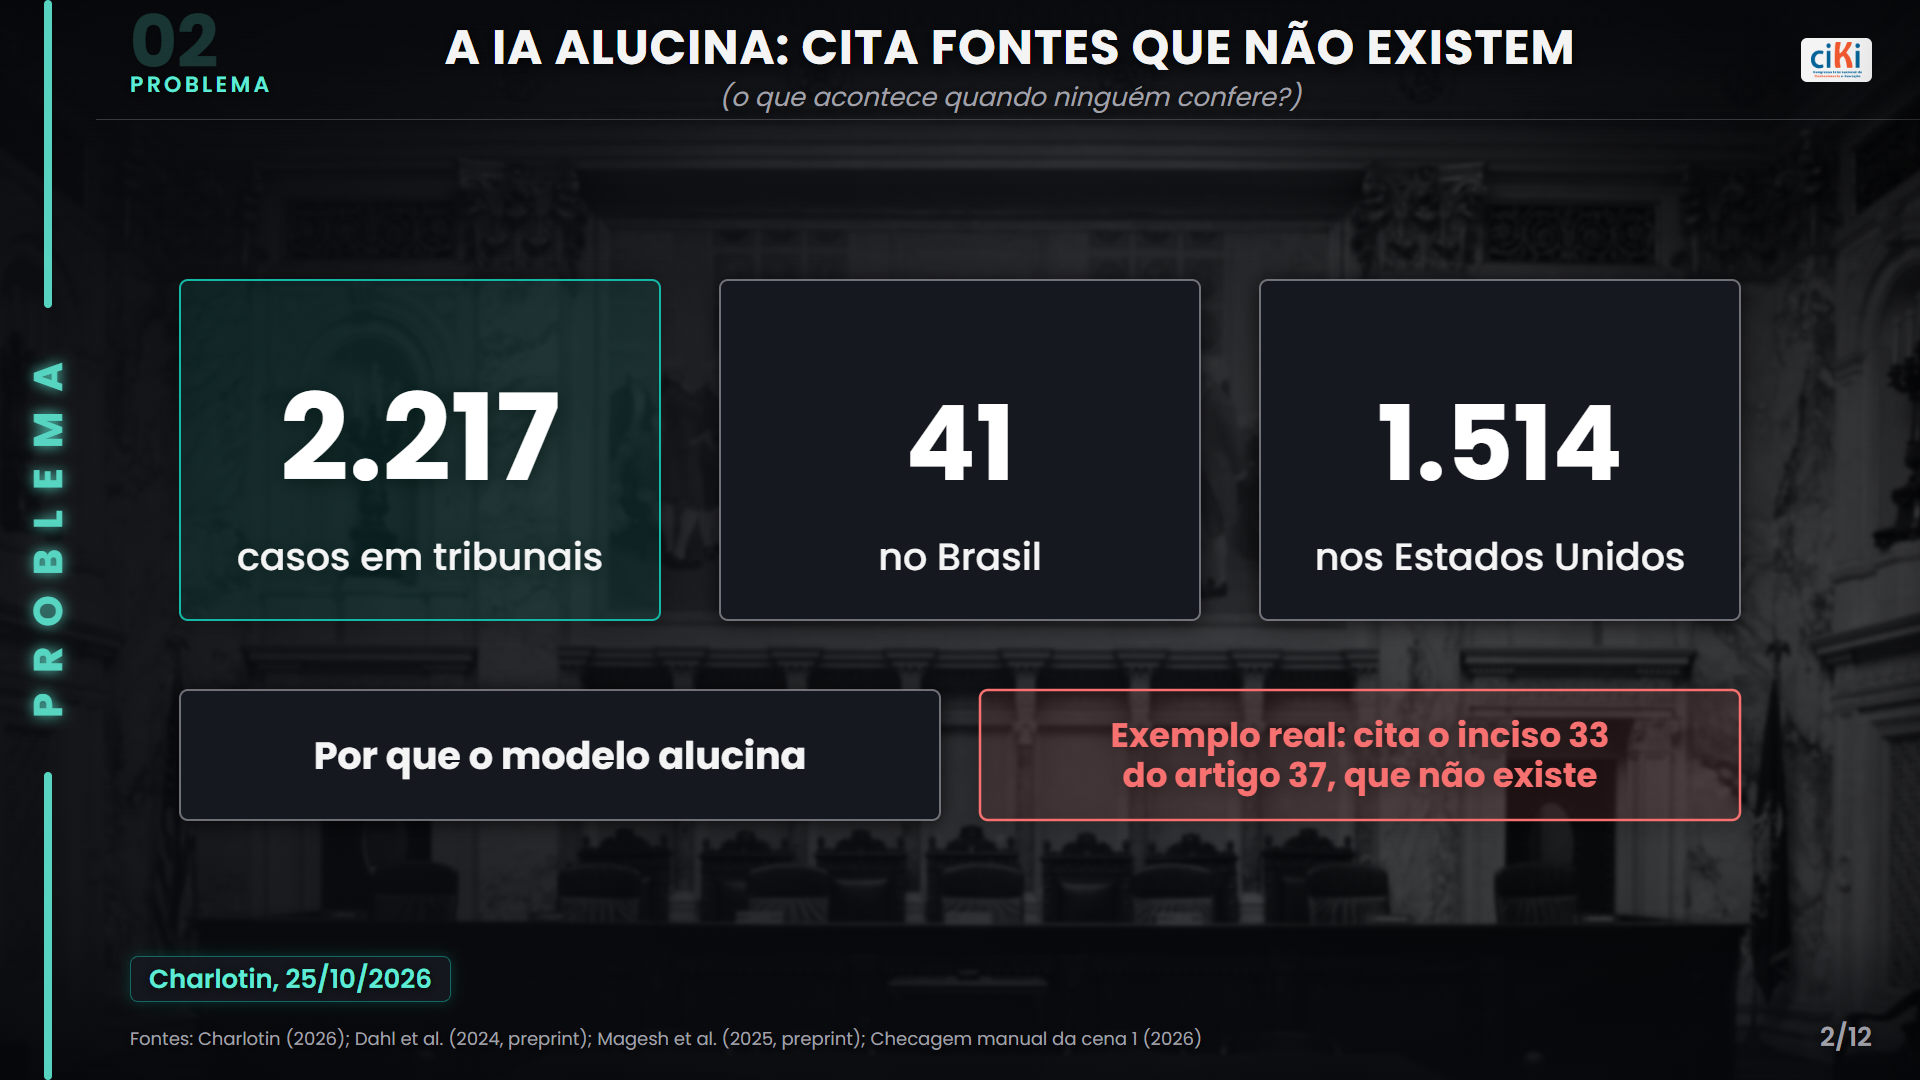
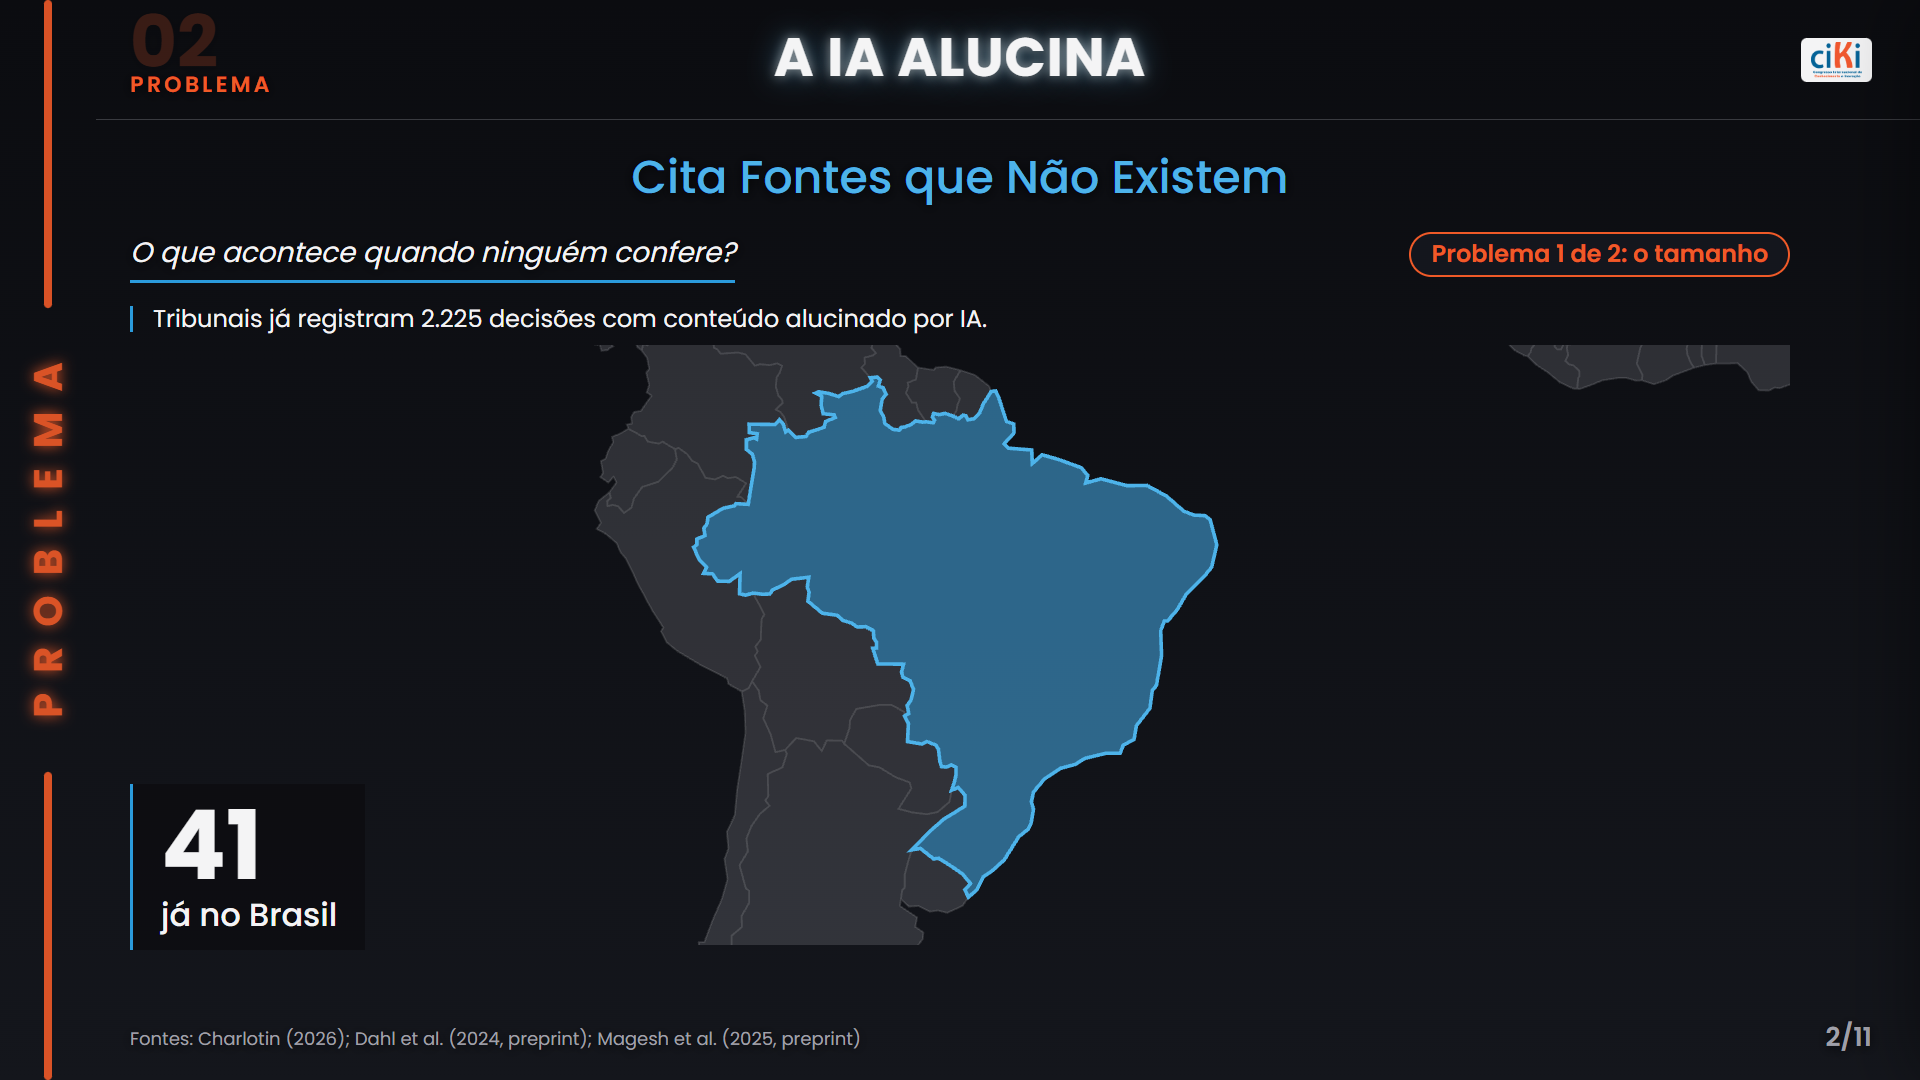
Slides 2 e 3: etiqueta Problema 1 de 2 e 2 de 2; IA explicável na camada 1

diff --git a/web/index.html b/web/index.html
@@ -7,7 +7,7 @@
 <link rel="stylesheet" href="fonts/poppins.css">
 <link rel="stylesheet" href="fonts/notosansmath.css">
 <link rel="stylesheet" href="kit.css">
-<link rel="stylesheet" href="deck.css?v=16">
+<link rel="stylesheet" href="deck.css?v=17">
 <link rel="stylesheet" href="matrix8.css">
 <link rel="stylesheet" href="paineis.css">
 </head>
@@ -35,6 +35,7 @@
 <section class="slide s2" data-title="A IA alucina: cita fontes que não existem" data-t="50" data-steps="3" data-block="PROBLEMA" data-fontes="charlotin,dahl,magesh" aria-label="A IA alucina">
 <h1 class="ttl"><span class="w">A IA ALUCINA</span></h1>
 <p class="sub">Cita Fontes que Não Existem</p>
+<p class="ptag">Problema 1 de 2: o tamanho</p>
 <p class="guia">O que acontece quando ninguém confere?</p>
 <div class="hero" data-hero="s2"></div>
 <p class="resp">Tribunais já registram 2.225 decisões com conteúdo alucinado por IA.</p>
@@ -42,6 +43,7 @@
 <div class="mc mc1" data-open="s2-casos" tabindex="0" role="button" aria-label="Casos nos Estados Unidos: ver a tabela e as taxas de erro"><b>1.514</b><span>só nos Estados Unidos</span></div>
 <div class="mc mc2" data-open="s2-casos" tabindex="0" role="button" aria-label="Casos no Brasil: ver a tabela e as taxas de erro"><b>41</b><span>já no Brasil</span></div>
 <aside class="notes" data-t="50">• Modelo escolhe o provável, não o verdadeiro
+• Problema 1: o tamanho
 • Mundo: 2.225 decisões (pelo menos), Charlotin 27/10
 • EUA 1.514 (2 em 3); Brasil 41: já chegou
 • Taxas de erro: clicar no número</aside>
@@ -53,9 +55,11 @@
 <div class="veil"></div>
 <h1 class="ttl"><span class="w">EXPLICAÇÃO TARDIA</span></h1>
 <p class="sub">Explicar Depois Não Evita o Erro</p>
+<p class="ptag">Problema 2 de 2: a saída atual não resolve</p>
 <p class="guia">Por que explicar o modelo não basta?</p>
 <div class="hero" data-hero="s3"></div>
-<aside class="notes" data-t="40">• Falsa saída: explicar depois (XAI)
+<aside class="notes" data-t="40">• Problema 2: a saída da literatura não resolve
+• IA explicável (XAI) explica depois do dano
 • Dano já ocorreu quando a explicação chega
 • Rudin 2019: interpretável desde o início
 • Prova antes da assinatura</aside>
@@ -330,6 +334,6 @@
 <script src="lib/three.min.js"></script>
 <script src="img/mundo.js"></script>
 <script src="matrix8.js"></script>
-<script src="deck.js?v=8"></script>
+<script src="deck.js?v=9"></script>
 </body>
 </html>

diff --git a/web/deck.js b/web/deck.js
@@ -391,7 +391,7 @@ function zoomMundo(s, step) {
 HEROES.s3 = K => {
   const l1 = K.lane({ x: 0, y: 10, w: 1600, h: 270, t: 'Depois', size: 36, step: 1 }) + K.node({ cx: 520, cy: 120, r: 44, step: 2 }) + K.text({ x: 520, y: 215, t: 'Decisão', size: 34, anchor: 'middle' }) +
     K.arrow({ pts: [[574, 120], [790, 120]], step: 3 }) + K.node({ cx: 880, cy: 120, r: 80, t: 'Dano', size: 36, tone: 'err', fill: true, step: 4 }) +
-    K.arrow({ pts: [[970, 120], [1230, 120]], tone: 'late', dash: true, step: 5 }) + K.ring({ cx: 1320, cy: 120, r: 80, dash: true, tone: 'late', step: 6 }) + K.text({ x: 1320, y: 240, t: 'Explicação', size: 34, anchor: 'middle', tone: 'late' });
+    K.arrow({ pts: [[970, 120], [1230, 120]], tone: 'late', dash: true, step: 5 }) + K.ring({ cx: 1320, cy: 120, r: 80, dash: true, tone: 'late', step: 6 }) + K.text({ x: 1320, y: 240, t: 'IA explicável', size: 34, anchor: 'middle', tone: 'late' });
   const sh = [480, 620, 760].map((x, i) => K.pic('verificar', { x, y: 420, s: 100, pos: 'none', step: 8 + i })).join('');
   const l2 = K.lane({ x: 0, y: 340, w: 1600, h: 270, t: 'Antes', size: 36, step: 7 }) + sh + K.text({ x: 660, y: 575, t: 'Verificações', size: 34, anchor: 'middle', step: 11 }) +
     K.arrow({ pts: [[890, 470], [1230, 470]], step: 12 }) + K.node({ cx: 1320, cy: 470, r: 64, fill: 'solid', step: 13 }) + K.text({ x: 1320, y: 585, t: 'Decisão', size: 34, anchor: 'middle', step: 13 });

diff --git a/web/deck.css b/web/deck.css
@@ -302,3 +302,5 @@ body.reduzir-movimento *{animation:none!important;transition:none!important}
 .slide.s8 .stepw{z-index:9;text-shadow:0 0 14px #0b0c10,0 2px 12px rgba(0,0,0,.9)}
 .slide.s8.matrix>.selo{font:400 20px/1.3 var(--fd);color:#a1a1aa;border:0;background:none;padding:0;left:130px;right:130px;bottom:64px;text-align:center}
 .slide.s8.matrix>.selo span{text-decoration:underline;cursor:help}
+
+.ptag{position:absolute;z-index:8;right:130px;top:232px;margin:0;padding:6px 20px;border:2px solid var(--cap);border-radius:999px;font:600 24px/1.2 var(--fd);color:var(--cap);white-space:nowrap;background:rgba(21,24,31,.85)}
